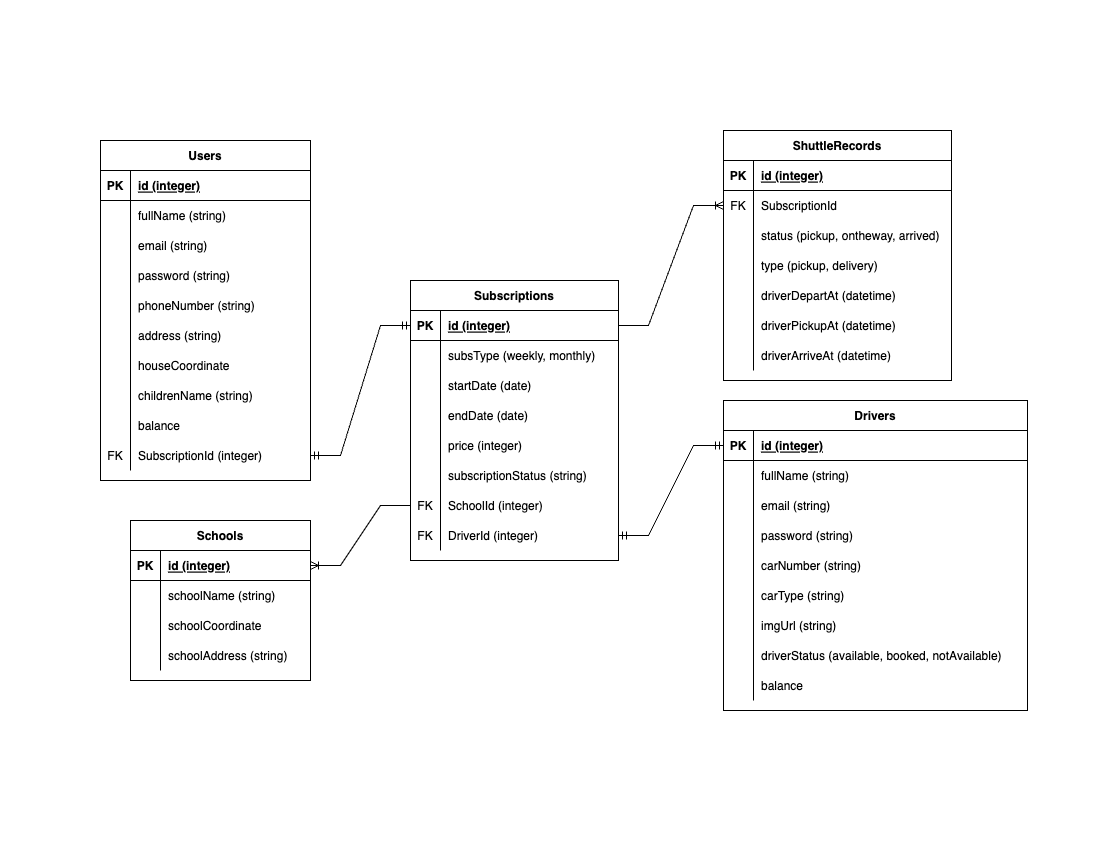
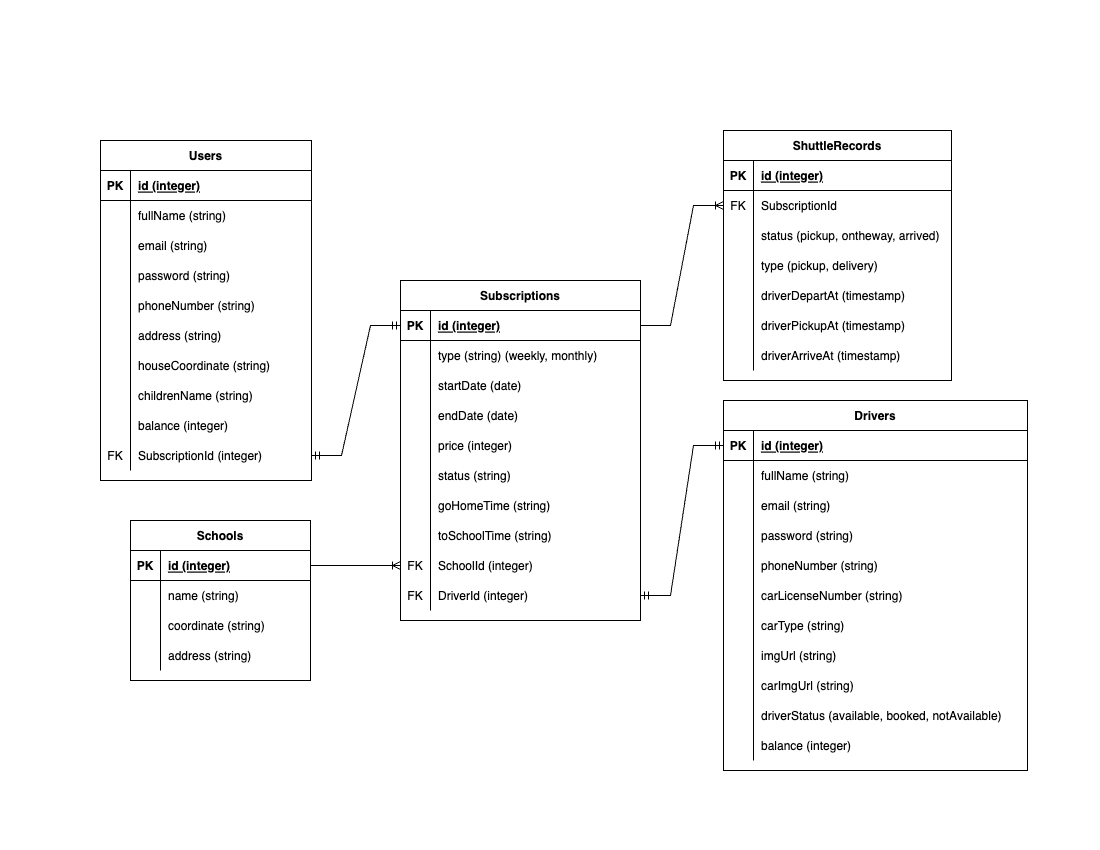
fix relation on model user and subscription

diff --git a/controllers/UserController.js b/controllers/UserController.js
@@ -1,7 +1,6 @@
 const {comparePassword} = require("../helpers/bcrypt");
 const {signToken} = require("../helpers/jwt");
 const { User, School, Subscription } = require("../models");
-const { sequelize } = require("../models");
 const moment = require('moment')
 const business = require('moment-business');
 
@@ -96,7 +95,6 @@ class UserController {
     }
 
     static async postSubscription(req, res, next) {
-        const t = await sequelize.transaction();
         const today = moment()
         try {
             const { type, price, goHomeTime, toShoolTime, DriverId, SchoolId } = req.body
@@ -104,19 +102,17 @@ class UserController {
             let startDate = new Date()
             let endDate
 
-            if (type == "weekly") endDate = new Date(business.addWeekDays(today, 7));
-            else if (type == "monthly") endDate = new Date(business.addWeekDays(today, 30));
+            if (type == "weekly") endDate = new Date(business.addWeekDays(today, 7))
+            else if (type == "monthly") endDate = new Date(business.addWeekDays(today, 30))
 
-            const createSubs = await Subscription({
+            const createSubs = await Subscription.create({
                 type, price, goHomeTime, toShoolTime, DriverId, SchoolId, startDate, endDate, 
                 status: "active"
-            }, { transaction: t })
+            })
             await User.update({ SubscriptionId: createSubs.id }, { where: { id }})
-
-            t.commit();
             res.status(201).json({ message: "success create subscription " + createSubs.id });
         } catch (err) {
-            t.rollback()
+            console.log(err);
             next(err);
         }
     }

diff --git a/routes/user.js b/routes/user.js
@@ -9,12 +9,10 @@ user.use(authz)
 
 user.post("/schools", UserController.postSchool)
 user.get("/schools", UserController.getSchools)
-
+user.post("/subscriptions", UserController.postSubscription)
 // user.post("/balances", UserController.postBalances)
 user.get("/balances/:userId", UserController.getBalance)
 user.patch("/balances/:userId", UserController.updateBalance)
-
-user.post("/subscriptions", UserController.postSubscription)
 user.get("/subscriptions/:id", UserController.getSubscription)
 user.patch("/subscriptions/:id", UserController.updateSubscription)
 

diff --git a/models/subscription.js b/models/subscription.js
@@ -12,7 +12,7 @@ module.exports = (sequelize, DataTypes) => {
     static associate(models) {
       // define association here
       Subscription.belongsTo(models.Driver)
-      Subscription.belongsTo(models.User)
+      Subscription.hasOne(models.User)
       Subscription.belongsTo(models.School)
     }
   }

diff --git a/models/user.js b/models/user.js
@@ -12,7 +12,7 @@ module.exports = (sequelize, DataTypes) => {
      */
     static associate(models) {
       // define association here
-      User.hasOne(models.Subscription, { onUpdate: "CASCADE", onDelete: "CASCADE" })
+      User.belongsTo(models.Subscription)
     }
   }
   User.init({
